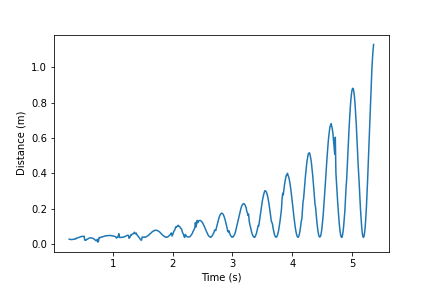
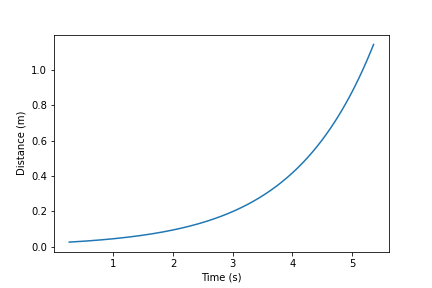
Work towards Gamma in Oscillation; Reformatting Resistance Plots

diff --git a/Spring Oscillation/SpringOscillation.py b/Spring Oscillation/SpringOscillation.py
@@ -8,6 +8,8 @@ from math import log10
 from math import floor
 from numpy import log
 from numpy import zeros
+import scipy.optimize as so
+from numpy import sin
 
 #function to round to a number of significant digits
 def round_it(x, sig):
@@ -58,7 +60,7 @@ for i in np.arange(0,len(bareY)-1,1):
 #Calculating energy over time
 bareEnergy = zeros(len(bareXt/dt))
 for i in np.arange(0,len(bareY),1):
-    bareEnergy[i] = (1/2)*bareMass*(bareV[i]**2)+(1/2)*bareK*(bareY[i]**2)
+    bareEnergy[i] = (1/2)*bareMass*(bareVy[i]**2)+(1/2)*bareK*(bareY[i]**2)
 
 pl.cla()
 pl.plot(bareXt,bareX, ".")
@@ -122,46 +124,129 @@ print("Spring constant is ",round(bareK,0)," +- ",uBareK, " kg/s/s")
 
 #________________________________________________________
 
-#mass with "bob" attached for damping
+dampedXt, dampedX, uDampedX = np.loadtxt("dampedx.txt", unpack=True)
+
+udampedXt = 0.005
 dampedMass = 217.6 #g
 dampedMass = dampedMass / 1000; #kg
+dampedPeriod = (dampedXt[-1] - dampedXt[0]) / 7; #seconds / oscillations = period
+uDampedPeriod = 0.01 #Because 0.01 is the distance between data points, and we do not know if the recorded maxima are actually at the respective times, as the true maximas could occur between data points
+dampedFrequency = 1/dampedPeriod
+uDampedFrequency = round_it((dampedFrequency * uDampedPeriod / dampedPeriod),1)
+dampedOmega0 = (2*np.pi)/dampedPeriod #1/s
+uDampedOmega0 = round_it((2 * np.pi * uDampedFrequency),1)
+dampedK = (dampedOmega0**2)*dampedMass
+uDampedK = round_it(((2**(1/2))*dampedOmega0*uDampedOmega0),1)
+
+#Using Forward Euler Method to get Plottable Data
+dampedY = zeros(len(dampedXt/dt))
+dampedVy = zeros(len(dampedXt/dt))
+dampedV0 = 0
+dampedY0 = find_Amplitude(dampedX)
+uDampedY0 = 0.0001 #m, because 0.0001 is the difference between different values that could be the amplitude
+dampedY[0]=dampedY0
+dampedVy[0] = dampedV0
+t0 = 0
+for i in np.arange(0,len(dampedY)-1,1):
+    dampedY[i+1] = dampedY[i] + dt*dampedVy[i]
+    dampedVy[i+1] = dampedVy[i] - dt*(dampedOmega0**2)*dampedY[i]
+    
+#Calculating energy over time
+dampedEnergy = zeros(len(dampedXt/dt))
+for i in np.arange(0,len(dampedY),1):
+    dampedEnergy[i] = (1/2)*dampedMass*(dampedVy[i]**2)+(1/2)*dampedK*(dampedY[i]**2)
+    
+pl.cla()
+pl.plot(dampedXt,dampedX, ".")
+pl.xlabel("Time (s)")
+pl.ylabel("Distance (m)")
+pl.savefig("Session 2 - MEASURED - Position over Time for Non-Damped Oscillation")
+pl.cla()
+pl.plot(dampedXt,dampedY)
+pl.xlabel("Time (s)")
+pl.ylabel("Distance (m)")
+pl.savefig("Session 2 - FORWARD - Position over Time for Non-Damped Oscillation")
+pl.cla()
+pl.plot(dampedXt,dampedVy)
+pl.xlabel("Time (s)")
+pl.ylabel("Distance (m)")
+pl.savefig("Session 2 - FORWARD -  Velocity over Time for Non-Damped Oscillation")
+pl.cla()
+pl.plot(dampedVy,dampedY)
+pl.xlabel("Time (s)")
+pl.ylabel("Distance (m)")
+pl.savefig("Session 2 - FORWARD - Velocity over Position for Non-Damped Oscillation")
+pl.cla()
+pl.plot(dampedXt,dampedEnergy)
+pl.xlabel("Time (s)")
+pl.ylabel("Distance (m)")
+pl.savefig("Session 2 - FORWARD - Energy over Time for Non-Damped Oscillation")
 
 dampedPeriod = ((5682 - 5155)/100) / 7 #Difference in sample numbers at 100 samples per second divided by the number of oscillations in the time interval gives Period
-
-dampedXt, dampedX, uDampedX = np.loadtxt("dampedx.txt", unpack=True)
 
 #converting from cm to m
 dampedX = dampedX / 100 
 uDampedX = uDampedX / 100
 
+#Using Symplectic Euler Method to get Plottable Data
+dampedY = zeros(len(dampedXt/dt))
+dampedVy = zeros(len(dampedXt/dt))
+dampedV0 = 0
+dampedY0 = find_Amplitude(dampedX)
+dampedY[0]=dampedY0
+dampedVy[0] = dampedV0
+t0 = 0
+for i in np.arange(0,len(dampedY)-1,1):
+    dampedY[i+1] = dampedY[i] + dt*dampedVy[i]
+    dampedVy[i+1] = dampedVy[i] - dt*(dampedK/dampedMass)*dampedY[i+1]
+
 pl.cla()
-pl.plot(dampedXt,dampedX)
+pl.plot(dampedXt,dampedY)
 pl.xlabel("Time (s)")
 pl.ylabel("Distance (m)")
-pl.savefig("Distance over Time for Damped Oscillation")
-
-total_time = bareXt[-1] - bareXt[0]
-number_of_oscillations_in_plot = 7
-T_fromPlot = total_time / number_of_oscillations_in_plot
-print("\nFrom the plotted data, the period of the oscillation is ", T_fromPlot," seconds.")
+pl.savefig("Session 2 - SYMPLECTIC - Position over Time for Non-Damped Oscillation")
+pl.cla()
+pl.plot(dampedXt,dampedVy)
+pl.xlabel("Time (s)")
+pl.ylabel("Distance (m)")
+pl.savefig("Session 2 - SYMPLECTIC -  Velocity over Time for Non-Damped Oscillation")
+pl.cla()
+pl.plot(dampedVy,dampedY)
+pl.xlabel("Time (s)")
+pl.ylabel("Distance (m)")
+pl.savefig("Session 2 - SYMPLECTIC - Velocity over Position for Non-Damped Oscillation")
 
 def find_Amplitude(index,position_array):
     """Finds the amplitude of a sinusoidal function based on extrema on a given time interval"""
-    net_displacement = abs(max(position_array[index:index+8]) - min(position_array[index:index+8]))
+    net_displacement = abs(max(position_array[index:index+150]) - min(position_array[index:index+150]))
     A = net_displacement / 2
     return A;
 
+def find_Amplitude_time(index,position_array):
+    """Finds the time of an aimpplitude on an interval"""
+    peak = abs(max(position_array[index:index+10]))
+    return peak;
+
 #determining Gamma coefficient
 initialDampedAmplitude = find_Amplitude(0,dampedX);
-dampedAmplitude1 = find_Amplitude(1200,dampedX);
+dampedAmplitude1 = find_Amplitude(100,dampedX);
 dampedAmplitude2 = find_Amplitude(2000,dampedX);
 dampedAmplitude3 = find_Amplitude(4000,dampedX);
 dampedAmplitude4 = find_Amplitude(8000,dampedX);
 dampedAmplitude5 = find_Amplitude(10000,dampedX);
 dampedAmplitude6 = find_Amplitude(12000,dampedX);
+uDampedAmplitude = round_it(((uDampedX + uDampedX)/2)[1],1)  
+
+initialDampedAmplitude = find_Amplitude(0,dampedX);
+dampedAmplitude1 = find_Amplitude_time(100,dampedX);
+dampedAmplitude2 = find_Amplitude_time(2000,dampedX);
+dampedAmplitude3 = find_Amplitude_time(4000,dampedX);
+dampedAmplitude4 = find_Amplitude_time(8000,dampedX);
+dampedAmplitude5 = find_Amplitude_time(10000,dampedX);
+dampedAmplitude6 = find_Amplitude_time(12000,dampedX);
 uDampedAmplitude = round_it(((uDampedX + uDampedX)/2)[1],1)    
 
-print(round(round_it(dampedAmplitude1, 6),3))
+print(round(round_it(dampedAmplitude1, 6),30))
 print(round(round_it(dampedAmplitude2, 6),3))
 print(round(round_it(dampedAmplitude3, 6),3))
 print(round(round_it(dampedAmplitude4, 6),3))
@@ -176,3 +261,28 @@ gamma.append(-(log(abs(dampedAmplitude1/initialDampedAmplitude))/(8000*0.01)))
 gamma.append(-(log(abs(dampedAmplitude1/initialDampedAmplitude))/(10000*0.01)))
 gamma.append(-(log(abs(dampedAmplitude1/initialDampedAmplitude))/(12000*0.01)))
 gamma = np.mean(gamma)
+
+
+
+print("For the BARE MASS:")
+print("Angular frequency is ",round(bareOmega0,1)," +- ",uBareOmega0," s^-1")
+print("Amplitude is ",round(bareY0,4)," +- ", uBareY0, " m")
+print("Frequency is  ",round(bareFrequency,1)," +- ",uBareOmega0," Hz")
+print("Spring constant is ",round(bareK,0)," +- ",uBareK, " kg/s/s")
+#rint("Gamma constant is ",round(gamma,20)," +- ",uGamma)
+
+Amplitudes = zeros(len(dampedXt))
+for i in np.arange(0,12000,1):
+    Amplitudes[i] = find_Amplitude(i,dampedX)
+    
+def gammaModel(t, gamma, h):
+    return Amplitudes[0]*np.exp(t * gamma)+h
+poptLin, pcovLin = so.curve_fit(gammaModel,dampedXt,dampedX)
+
+pl.cla()
+pl.plot(dampedXt,dampedX, ".")
+pl.plot(dampedXt[0:11900],Amplitudes[0:11900]+poptLin[1]) #0.26625
+pl.plot(dampedXt[0:11900],gammaModel(dampedXt[0:11900],poptLin[0],poptLin[1]))
+pl.xlabel("Time (s)")
+pl.ylabel("Distance (m)")
+pl.savefig("GAMMA DUMMY")

diff --git a/Power Supply Output Resistance/Power Supply Output Resistance.py b/Power Supply Output Resistance/Power Supply Output Resistance.py
@@ -26,6 +26,7 @@ plt.show()
 #(b) Plot voltage V as a function of current I, calculate the output resistance of
 # thepower supply Rps
 
+plt.subplot()
 plt.plot(DCSupply_Current,DCSupply_TerminalVoltage, marker="o",linestyle="None")
 plt.ylabel("DC Power SUpply Voltage (V)")
 plt.xlabel("Current (mA)")
@@ -35,36 +36,41 @@ plt.errorbar(DCSupply_Current,DCSupply_TerminalVoltage, xerr=uDCSupply_Current, 
 plt.savefig("2-BatteryTerminal-VxI");
 plt.show()
 #plot 6.5
+plt.figure(1)
+plt.subplot(2,2,1)
 plt.plot(V65_Current,V65_TerminalVoltage, marker="o",linestyle="-")
-plt.ylabel("DC Power SUpply Voltage (V)")
+plt.ylabel("Voltage (V)")
 plt.xlabel("Current (mA)")
-plt.title("DC Power SUpply Voltage 6.5V vs. Current")
+plt.title("6.5V")
 plt.errorbar(V65_Current,V65_TerminalVoltage, xerr=u65V_Current, yerr=u65V_TerminalVoltage,fmt="o",ecolor="blue")
-plt.savefig("6,5V-BatteryTerminal-VxI");
-plt.show()
+#plt.savefig("6,5V-BatteryTerminal-VxI");
+#plt.show()
 #plot 10
+plt.subplot(2,2,2)
 plt.plot(V10_Current,V10_TerminalVoltage, marker="o",linestyle="-")
-plt.ylabel("DC Power SUpply Voltage (V)")
 plt.xlabel("Current (mA)")
-plt.title("DC Power SUpply Voltage 10V vs. Current")
+plt.title("10V")
 plt.errorbar(V10_Current,V10_TerminalVoltage, xerr=u10V_Current, yerr=u10V_TerminalVoltage,fmt="o",ecolor="blue")
-plt.savefig("10V-BatteryTerminal-VxI");
-plt.show()
+#plt.savefig("10V-BatteryTerminal-VxI");
+#plt.show()
 # PLOT 15
+plt.subplot(2,2,3)
 plt.plot(V15_Current,V15_TerminalVoltage, marker="o",linestyle="-")
-plt.ylabel("DC Power SUpply Voltage (V)")
+plt.ylabel("Voltage (V)")
 plt.xlabel("Current (mA)")
-plt.title("DC Power SUpply Voltage 15V vs. Current")
+plt.title("15V")
 plt.errorbar(V15_Current,V15_TerminalVoltage, xerr=u15V_Current, yerr=u15V_TerminalVoltage,fmt="o",ecolor="blue")
-plt.savefig("15V-BatteryTerminal-VxI");
-plt.show()
+#plt.savefig("15V-BatteryTerminal-VxI");
+#plt.show()
 #PLOT 20
+plt.subplot(2,2,4)
 plt.plot(V20_Current,V20_TerminalVoltage, marker="o",linestyle="-")
-plt.ylabel("DC Power SUpply Voltage (V)")
+#plt.ylabel("DC Power Supply Voltage (V)")
 plt.xlabel("Current (mA)")
-plt.title("DC Power SUpply Voltage 20V vs. Current")
+plt.title("20V")
 plt.errorbar(V20_Current,V20_TerminalVoltage, xerr=u20V_Current, yerr=u20V_TerminalVoltage,fmt="o",ecolor="blue")
-plt.savefig("20V-BatteryTerminal-VxI");
+plt.tight_layout(h_pad=2);
+plt.savefig("20V-BatteryTerminal-VxI",dpi=300,bbox_inches="tight");
 plt.show()
 
 output_resitance=[0.676, 1.092, 1.704,7.619]
